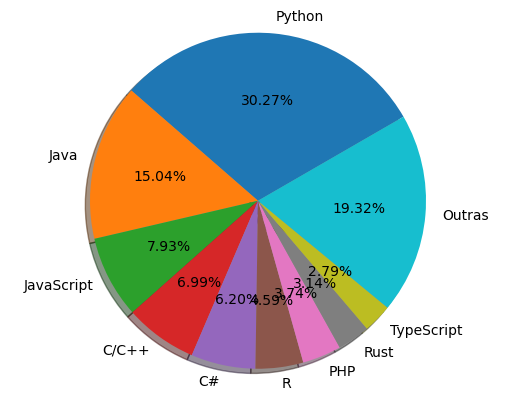
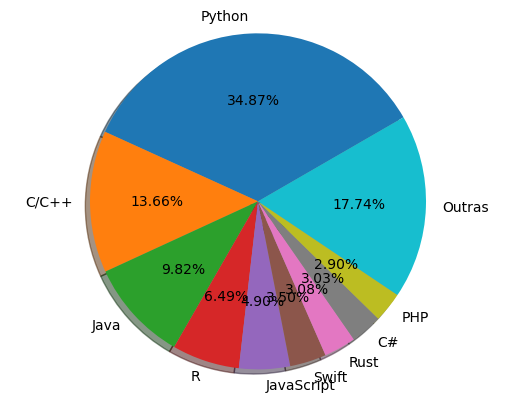
Build site at 2026-03-04 16:41:22 UTC

diff --git a/docs/popularidade/index.html b/docs/popularidade/index.html
@@ -1415,187 +1415,187 @@
     <tr>
       <td style="text-align: center">1</td>
       <td style="text-align: left">Python</td>
-      <td style="text-align: center">30.27</td>
-      <td style="text-align: center">+1.4</td>
+      <td style="text-align: center">34.87</td>
+      <td style="text-align: center">+4.4</td>
     </tr>
     <tr>
       <td style="text-align: center">2</td>
-      <td style="text-align: left">Java</td>
-      <td style="text-align: center">15.04</td>
-      <td style="text-align: center">-0.6</td>
+      <td style="text-align: left">C/C++</td>
+      <td style="text-align: center">13.66</td>
+      <td style="text-align: center">+6.6</td>
     </tr>
     <tr>
       <td style="text-align: center">3</td>
-      <td style="text-align: left">JavaScript</td>
-      <td style="text-align: center">7.93</td>
-      <td style="text-align: center">-0.7</td>
+      <td style="text-align: left">Java</td>
+      <td style="text-align: center">9.82</td>
+      <td style="text-align: center">-5.4</td>
     </tr>
     <tr>
       <td style="text-align: center">4</td>
-      <td style="text-align: left">C/C++</td>
-      <td style="text-align: center">6.99</td>
-      <td style="text-align: center">+0.6</td>
+      <td style="text-align: left">R</td>
+      <td style="text-align: center">6.49</td>
+      <td style="text-align: center">+1.9</td>
     </tr>
     <tr>
       <td style="text-align: center">5</td>
-      <td style="text-align: left">C#</td>
-      <td style="text-align: center">6.2</td>
-      <td style="text-align: center">-0.6</td>
+      <td style="text-align: left">JavaScript</td>
+      <td style="text-align: center">4.9</td>
+      <td style="text-align: center">-3.2</td>
     </tr>
     <tr>
       <td style="text-align: center">6</td>
-      <td style="text-align: left">R</td>
-      <td style="text-align: center">4.59</td>
-      <td style="text-align: center">+0.0</td>
+      <td style="text-align: left">Swift</td>
+      <td style="text-align: center">3.5</td>
+      <td style="text-align: center">+1.1</td>
     </tr>
     <tr>
       <td style="text-align: center">7</td>
-      <td style="text-align: left">PHP</td>
-      <td style="text-align: center">3.74</td>
-      <td style="text-align: center">-0.8</td>
+      <td style="text-align: left">Rust</td>
+      <td style="text-align: center">3.08</td>
+      <td style="text-align: center">-0.0</td>
     </tr>
     <tr>
       <td style="text-align: center">8</td>
-      <td style="text-align: left">Rust</td>
-      <td style="text-align: center">3.14</td>
-      <td style="text-align: center">+0.5</td>
+      <td style="text-align: left">C#</td>
+      <td style="text-align: center">3.03</td>
+      <td style="text-align: center">-3.1</td>
     </tr>
     <tr>
       <td style="text-align: center">9</td>
-      <td style="text-align: left">TypeScript</td>
-      <td style="text-align: center">2.79</td>
-      <td style="text-align: center">-0.1</td>
+      <td style="text-align: left">PHP</td>
+      <td style="text-align: center">2.9</td>
+      <td style="text-align: center">-0.8</td>
     </tr>
     <tr>
       <td style="text-align: center">10</td>
-      <td style="text-align: left">Objective-C</td>
-      <td style="text-align: center">2.72</td>
-      <td style="text-align: center">+0.3</td>
+      <td style="text-align: left">Ada</td>
+      <td style="text-align: center">2.66</td>
+      <td style="text-align: center">+1.3</td>
     </tr>
     <tr>
       <td style="text-align: center">11</td>
-      <td style="text-align: left">Swift</td>
-      <td style="text-align: center">2.39</td>
-      <td style="text-align: center">-0.4</td>
+      <td style="text-align: left">Objective-C</td>
+      <td style="text-align: center">2.43</td>
+      <td style="text-align: center">-0.1</td>
     </tr>
     <tr>
       <td style="text-align: center">12</td>
-      <td style="text-align: left">Go</td>
-      <td style="text-align: center">2.07</td>
-      <td style="text-align: center">-0.2</td>
+      <td style="text-align: left">TypeScript</td>
+      <td style="text-align: center">1.85</td>
+      <td style="text-align: center">-0.8</td>
     </tr>
     <tr>
       <td style="text-align: center">13</td>
-      <td style="text-align: left">Kotlin</td>
-      <td style="text-align: center">1.79</td>
+      <td style="text-align: left">Matlab</td>
+      <td style="text-align: center">1.54</td>
       <td style="text-align: center">-0.1</td>
     </tr>
     <tr>
       <td style="text-align: center">14</td>
-      <td style="text-align: left">Matlab</td>
-      <td style="text-align: center">1.63</td>
-      <td style="text-align: center">+0.1</td>
+      <td style="text-align: left">Powershell</td>
+      <td style="text-align: center">1.25</td>
+      <td style="text-align: center">+0.4</td>
     </tr>
     <tr>
       <td style="text-align: center">15</td>
-      <td style="text-align: left">Ada</td>
-      <td style="text-align: center">1.4</td>
-      <td style="text-align: center">+0.5</td>
+      <td style="text-align: left">Dart</td>
+      <td style="text-align: center">1.08</td>
+      <td style="text-align: center">+0.0</td>
     </tr>
     <tr>
       <td style="text-align: center">16</td>
       <td style="text-align: left">Ruby</td>
-      <td style="text-align: center">1.02</td>
-      <td style="text-align: center">+0.0</td>
+      <td style="text-align: center">0.98</td>
+      <td style="text-align: center">-0.0</td>
     </tr>
     <tr>
       <td style="text-align: center">17</td>
-      <td style="text-align: left">Dart</td>
-      <td style="text-align: center">0.93</td>
-      <td style="text-align: center">-0.1</td>
+      <td style="text-align: left">Kotlin</td>
+      <td style="text-align: center">0.96</td>
+      <td style="text-align: center">-0.8</td>
     </tr>
     <tr>
       <td style="text-align: center">18</td>
-      <td style="text-align: left">Powershell</td>
-      <td style="text-align: center">0.91</td>
-      <td style="text-align: center">-0.0</td>
+      <td style="text-align: left">Lua</td>
+      <td style="text-align: center">0.92</td>
+      <td style="text-align: center">+0.0</td>
     </tr>
     <tr>
       <td style="text-align: center">19</td>
       <td style="text-align: left">VBA</td>
-      <td style="text-align: center">0.9</td>
+      <td style="text-align: center">0.87</td>
       <td style="text-align: center">-0.0</td>
     </tr>
     <tr>
       <td style="text-align: center">20</td>
-      <td style="text-align: left">Lua</td>
-      <td style="text-align: center">0.87</td>
-      <td style="text-align: center">+0.1</td>
+      <td style="text-align: left">Julia</td>
+      <td style="text-align: center">0.77</td>
+      <td style="text-align: center">+0.4</td>
     </tr>
     <tr>
       <td style="text-align: center">21</td>
-      <td style="text-align: left">Scala</td>
-      <td style="text-align: center">0.59</td>
-      <td style="text-align: center">-0.0</td>
+      <td style="text-align: left">Go</td>
+      <td style="text-align: center">0.67</td>
+      <td style="text-align: center">-1.3</td>
     </tr>
     <tr>
       <td style="text-align: center">22</td>
       <td style="text-align: left">Abap</td>
-      <td style="text-align: center">0.51</td>
-      <td style="text-align: center">-0.0</td>
+      <td style="text-align: center">0.37</td>
+      <td style="text-align: center">-0.2</td>
     </tr>
     <tr>
       <td style="text-align: center">23</td>
-      <td style="text-align: left">Julia</td>
-      <td style="text-align: center">0.4</td>
-      <td style="text-align: center">+0.1</td>
+      <td style="text-align: left">Scala</td>
+      <td style="text-align: center">0.33</td>
+      <td style="text-align: center">-0.3</td>
     </tr>
     <tr>
       <td style="text-align: center">24</td>
-      <td style="text-align: left">Visual Basic</td>
-      <td style="text-align: center">0.38</td>
-      <td style="text-align: center">-0.2</td>
+      <td style="text-align: left">Delphi/Pascal</td>
+      <td style="text-align: center">0.27</td>
+      <td style="text-align: center">+0.2</td>
     </tr>
     <tr>
       <td style="text-align: center">25</td>
       <td style="text-align: left">Zig</td>
-      <td style="text-align: center">0.18</td>
-      <td style="text-align: center">+0.1</td>
+      <td style="text-align: center">0.27</td>
+      <td style="text-align: center">+0.0</td>
     </tr>
     <tr>
       <td style="text-align: center">26</td>
-      <td style="text-align: left">Groovy</td>
-      <td style="text-align: center">0.18</td>
+      <td style="text-align: left">Visual Basic</td>
+      <td style="text-align: center">0.16</td>
       <td style="text-align: center">-0.1</td>
     </tr>
     <tr>
       <td style="text-align: center">27</td>
-      <td style="text-align: left">Cobol</td>
-      <td style="text-align: center">0.16</td>
-      <td style="text-align: center">-0.0</td>
-    </tr>
-    <tr>
-      <td style="text-align: center">28</td>
       <td style="text-align: left">Haskell</td>
-      <td style="text-align: center">0.16</td>
+      <td style="text-align: center">0.13</td>
       <td style="text-align: center">+0.0</td>
     </tr>
     <tr>
+      <td style="text-align: center">28</td>
+      <td style="text-align: left">Groovy</td>
+      <td style="text-align: center">0.11</td>
+      <td style="text-align: center">-0.1</td>
+    </tr>
+    <tr>
       <td style="text-align: center">29</td>
-      <td style="text-align: left">Delphi/Pascal</td>
+      <td style="text-align: left">Perl</td>
       <td style="text-align: center">0.07</td>
       <td style="text-align: center">+0.0</td>
     </tr>
     <tr>
       <td style="text-align: center">30</td>
-      <td style="text-align: left">Perl</td>
-      <td style="text-align: center">0.06</td>
+      <td style="text-align: left">Cobol</td>
+      <td style="text-align: center">0.05</td>
       <td style="text-align: center">-0.1</td>
     </tr>
   </tbody>
 </table>
 
-<p class="small"><strong><em>Mundialmente em abril de 2025, comparado a um ano antes</em></strong></p>
+<p class="small"><strong><em>Mundialmente em março de 2026, comparado a um ano antes</em></strong></p>
 
 
   
@@ -1603,7 +1603,7 @@
 
 <hr>
 <p class="small">
-  <i> Página atualizada em 11/04/25</i>
+  <i> Página atualizada em 04/03/26</i>
 </p>
 
 

diff --git a/docs/material/sobre/06-cronograma.html b/docs/material/sobre/06-cronograma.html
@@ -35,7 +35,7 @@
 <meta name="twitter:card" content="summary" />
 <meta property="twitter:title" content="Cronograma" />
 <script type="application/ld+json">
-{"@context":"https://schema.org","@type":"WebPage","author":{"@type":"Person","name":"Luiz T. F. Eleno"},"dateModified":"2025-03-10T10:29:43-03:00","description":"Computação Científica em Python - uma disciplina do curso de Engenharia Física da Escola de Engenharia de Lorena da Universidade de São Paulo - EEL USP","headline":"Cronograma","url":"https://computeel.org/LOM3260/material/sobre/06-cronograma.html"}</script>
+{"@context":"https://schema.org","@type":"WebPage","author":{"@type":"Person","name":"Luiz T. F. Eleno"},"dateModified":"2026-03-02T12:45:53-03:00","description":"Computação Científica em Python - uma disciplina do curso de Engenharia Física da Escola de Engenharia de Lorena da Universidade de São Paulo - EEL USP","headline":"Cronograma","url":"https://computeel.org/LOM3260/material/sobre/06-cronograma.html"}</script>
 <!-- End Jekyll SEO tag -->
 
   

diff --git a/docs/teste/index.html b/docs/teste/index.html
@@ -1403,11 +1403,11 @@
 
 <p><em>Obs.:</em> ao final de todas as páginas dos <strong>Temas</strong> há um intérprete python parecido com o visto acima para você testar imediatamente os exemplos e instruções de cada página!</p>
 
-<h2 id="replit">Repl.it</h2>
+<!--## Repl.it
 
-<p>A janela de teste abaixo, usando os recursos do <a href="https://repl.it/" target="\_blank">Repl.it</a>, ainda está em fase de testes, mas você pode tentar usar.</p>
+A janela de teste abaixo, usando os recursos do [Repl.it](https://repl.it/){: target="\_blank"}, ainda está em fase de testes, mas você pode tentar usar.
 
-<iframe frameborder="0" width="100%" height="500px" src="https://repl.it/@LuizTadeu/QuirkyLivelyGoals?lite=true"></iframe>
+<iframe frameborder="0" width="100%" height="500px" src="https://repl.it/@LuizTadeu/QuirkyLivelyGoals?lite=true"></iframe>-->
 
 
   

diff --git a/docs/index.html b/docs/index.html
@@ -1436,7 +1436,7 @@
 
 </div>
 
-<p class="small"><strong><em>Última atualização: 02/03/2026 12:45:46</em></strong></p>
+<p class="small"><strong><em>Última atualização: 04/03/2026 13:41:16</em></strong></p>
 
 
 

diff --git a/material/sobre/01-introdução.md b/material/sobre/01-introdução.md
@@ -4,7 +4,7 @@ parent: sobre
 nav_order: 0
 tags: [introdução, pypl, python, popularity]
 permalink: /popularidade/
-timestamp: '11/04/25'
+timestamp: '04/03/26'
 ---
 
 Python é a linguagem mais popular e a que mais cresce mundialmente
@@ -18,36 +18,36 @@ O **índice PYPL** (*PopularitY of Programming Language*) é obtido analisando a
 
 | Posição	| Linguagem |	Fatia (%)	| Tendência (%) |
 |:-------:|:--------- |:-----:|:---------:|
-| 1 | Python |          30.27  | +1.4  |
-| 2 | Java |          15.04  | -0.6  |
-| 3 | JavaScript |          7.93  | -0.7  |
-| 4 | C/C++ |          6.99  | +0.6  |
-| 5 | C# |          6.2  | -0.6  |
-| 6 | R |          4.59  | +0.0  |
-| 7 | PHP |          3.74  | -0.8  |
-| 8 | Rust |          3.14  | +0.5  |
-| 9 | TypeScript |          2.79  | -0.1  |
-| 10 | Objective-C |          2.72  | +0.3  |
-| 11 | Swift |          2.39  | -0.4  |
-| 12 | Go |          2.07  | -0.2  |
-| 13 | Kotlin |          1.79  | -0.1  |
-| 14 | Matlab |          1.63  | +0.1  |
-| 15 | Ada |          1.4  | +0.5  |
-| 16 | Ruby |          1.02  | +0.0  |
-| 17 | Dart |          0.93  | -0.1  |
-| 18 | Powershell |          0.91  | -0.0  |
-| 19 | VBA |          0.9  | -0.0  |
-| 20 | Lua |          0.87  | +0.1  |
-| 21 | Scala |          0.59  | -0.0  |
-| 22 | Abap |          0.51  | -0.0  |
-| 23 | Julia |          0.4  | +0.1  |
-| 24 | Visual Basic |          0.38  | -0.2  |
-| 25 | Zig |          0.18  | +0.1  |
-| 26 | Groovy |          0.18  | -0.1  |
-| 27 | Cobol |          0.16  | -0.0  |
-| 28 | Haskell |          0.16  | +0.0  |
-| 29 | Delphi/Pascal |          0.07  | +0.0  |
-| 30 | Perl |          0.06  | -0.1  |
+| 1 | Python |          34.87  | +4.4  |
+| 2 | C/C++ |          13.66  | +6.6  |
+| 3 | Java |          9.82  | -5.4  |
+| 4 | R |          6.49  | +1.9  |
+| 5 | JavaScript |          4.9  | -3.2  |
+| 6 | Swift |          3.5  | +1.1  |
+| 7 | Rust |          3.08  | -0.0  |
+| 8 | C# |          3.03  | -3.1  |
+| 9 | PHP |          2.9  | -0.8  |
+| 10 | Ada |          2.66  | +1.3  |
+| 11 | Objective-C |          2.43  | -0.1  |
+| 12 | TypeScript |          1.85  | -0.8  |
+| 13 | Matlab |          1.54  | -0.1  |
+| 14 | Powershell |          1.25  | +0.4  |
+| 15 | Dart |          1.08  | +0.0  |
+| 16 | Ruby |          0.98  | -0.0  |
+| 17 | Kotlin |          0.96  | -0.8  |
+| 18 | Lua |          0.92  | +0.0  |
+| 19 | VBA |          0.87  | -0.0  |
+| 20 | Julia |          0.77  | +0.4  |
+| 21 | Go |          0.67  | -1.3  |
+| 22 | Abap |          0.37  | -0.2  |
+| 23 | Scala |          0.33  | -0.3  |
+| 24 | Delphi/Pascal |          0.27  | +0.2  |
+| 25 | Zig |          0.27  | +0.0  |
+| 26 | Visual Basic |          0.16  | -0.1  |
+| 27 | Haskell |          0.13  | +0.0  |
+| 28 | Groovy |          0.11  | -0.1  |
+| 29 | Perl |          0.07  | +0.0  |
+| 30 | Cobol |          0.05  | -0.1  |
 
-***Mundialmente em abril de 2025, comparado a um ano antes***
+***Mundialmente em março de 2026, comparado a um ano antes***
 {: .small}

diff --git a/material/testa-codigo.md b/material/testa-codigo.md
@@ -18,8 +18,8 @@ Use esta página como uma caixa de teste de ideias em python.
 
 *Obs.:* ao final de todas as páginas dos **Temas** há um intérprete python parecido com o visto acima para você testar imediatamente os exemplos e instruções de cada página!
 
-## Repl.it
+<!--## Repl.it
 
 A janela de teste abaixo, usando os recursos do [Repl.it](https://repl.it/){: target="\_blank"}, ainda está em fase de testes, mas você pode tentar usar.
 
-<iframe frameborder="0" width="100%" height="500px" src="https://repl.it/@LuizTadeu/QuirkyLivelyGoals?lite=true"></iframe>
+<iframe frameborder="0" width="100%" height="500px" src="https://repl.it/@LuizTadeu/QuirkyLivelyGoals?lite=true"></iframe>-->
